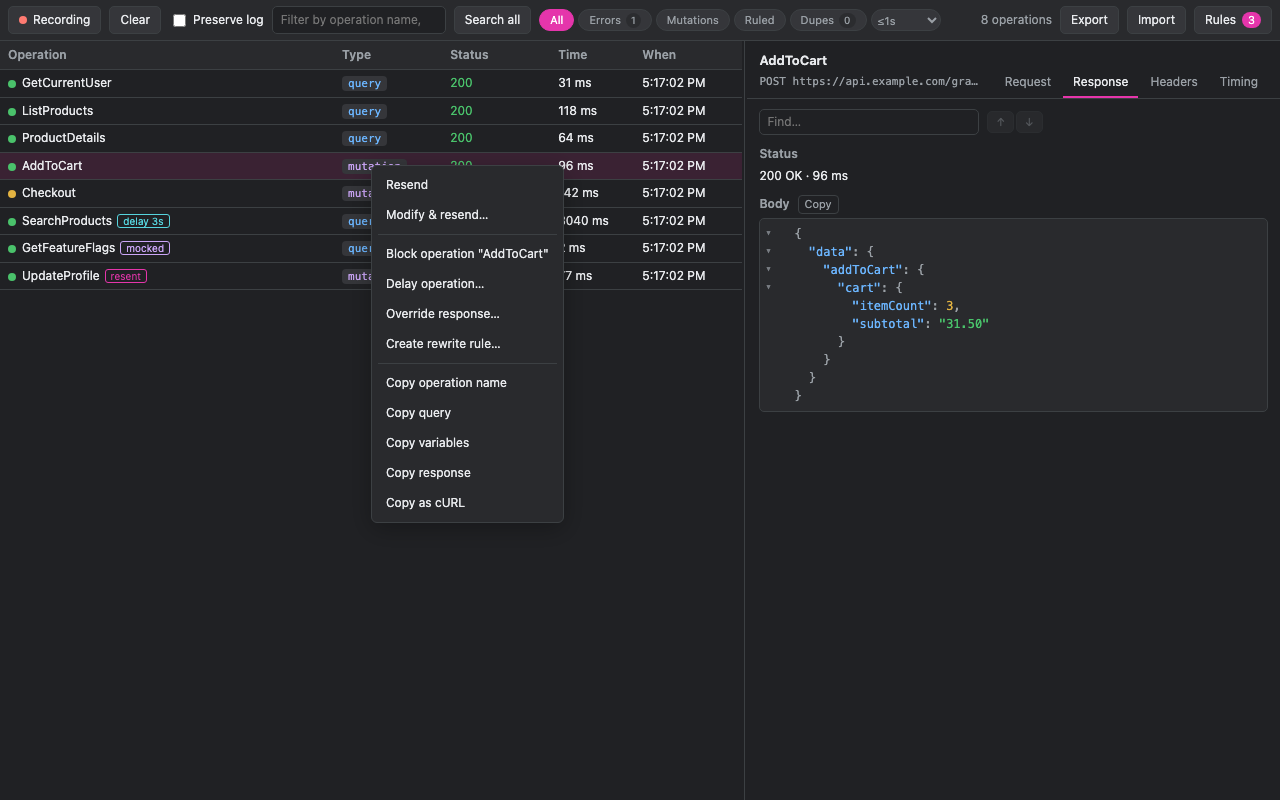
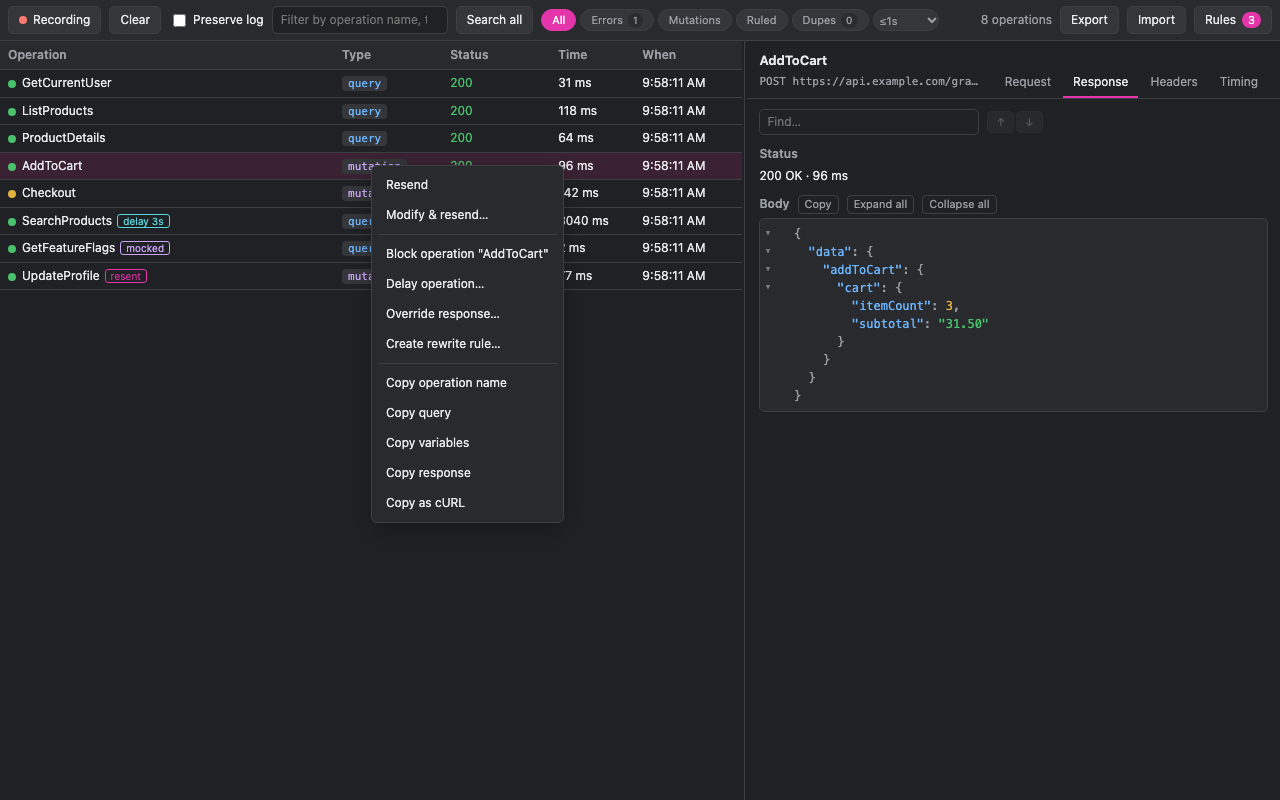
Open every viewer fully expanded, with Expand all / Collapse all (v1.6.0)
- Every viewer (query, variables, raw body, response) was capped at 360px
  inside a pane that already scrolls, so a long response showed a scrollbar
  inside a scrollbar even with room to spare. The cap is gone: a block grows
  to its content and the tab pane under the pinned tab bar is the one vertical
  scroller. A block scrolls sideways only when a line is wider than the pane.
- Large arrays no longer auto-collapse; everything opens expanded. Each
  heading with something nested to fold gains Expand all / Collapse all.
  Collapse all leaves the top-level outline (`"data": { … }`): blocks that
  open at column 0 — the JSON root, a GraphQL operation or fragment — stay
  open. The Query buttons drive whichever block is on screen, inlined
  fragments included; a flat block like `{ "q": "cook" }` gets no buttons.
- Showing every row costs layout: a 24k-line (243 KB) response took ~490 ms
  to open expanded against ~130 ms mostly folded. Rows now use
  `content-visibility: auto` so off-screen ones skip layout (~250 ms; Expand
  all 340 ms -> 35 ms). Each row is sized to its line (max-content, at least
  the block's width) so that containment can't clip a long line — which also
  keeps a long line's gutter pinned when the block is scrolled sideways.
- Folding is one linear pass instead of rows x folded blocks, so collapsing
  thousands of blocks at once is instant.
- README, store listing, checklist zip name and store screenshots updated.
[…]

diff --git a/src/panel.js b/src/panel.js
@@ -404,15 +404,29 @@
   }
 
   // Foldable, syntax-highlighted code block (falls back to <pre> if codeview missing).
-  // opts.autoCollapseLines auto-folds blocks taller than N lines (used for bodies).
-  // Every row can copy the piece of the document it opens — see copyRow/copyRowMenu.
-  var AUTO_COLLAPSE = 24;
-  function codeBlock(text, lang, opts) {
+  // It opens fully expanded; the heading's Expand all / Collapse all (foldLinks)
+  // folds it down to an outline. Every row can copy the piece of the document it
+  // opens — see copyRow/copyRowMenu.
+  function codeBlock(text, lang) {
     if (window.GQLCode && text != null && text !== '') {
-      var full = Object.assign({}, opts || {}, { copy: copyRow, menu: copyRowMenu });
-      try { return GQLCode.renderFoldableCode(String(text), lang, full); } catch (e) { /* fall through */ }
+      try { return GQLCode.renderFoldableCode(String(text), lang, { copy: copyRow, menu: copyRowMenu }); } catch (e) { /* fall through */ }
     }
     return el('pre', { class: 'block', text: (text == null || text === '') ? '(empty)' : String(text) });
+  }
+
+  // Expand all / Collapse all for one viewer, to sit in its heading. Nothing for
+  // a block with nothing nested to fold (a flat variables object, a <pre>).
+  function foldLinks(block) {
+    var f = block && block.cvFold;
+    if (!f || !f.count) return [];
+    return [
+      el('button', { class: 'fold-link', type: 'button', text: 'Expand all', title: 'Unfold every block', onclick: f.expandAll }),
+      el('button', { class: 'fold-link', type: 'button', text: 'Collapse all', title: 'Fold every nested block, leaving the top-level outline', onclick: f.collapseAll })
+    ];
+  }
+  function withFoldLinks(label, block) {
+    foldLinks(block).forEach(function (b) { label.appendChild(b); });
+    return label;
   }
 
   // ---- copying a piece of a viewer ---------------------------------------
@@ -469,11 +483,11 @@
     }
     return lab;
   }
-  function jsonOrPre(text, opts) {
+  function jsonOrPre(text) {
     if (text == null || text === '') return el('pre', { class: 'block', text: '(none)' });
     var parses = false;
     try { JSON.parse(typeof text === 'string' ? text : JSON.stringify(text)); parses = true; } catch (e) {}
-    return parses ? codeBlock(prettyJson(text), 'json', opts) : el('pre', { class: 'block', text: String(text) });
+    return parses ? codeBlock(prettyJson(text), 'json') : el('pre', { class: 'block', text: String(text) });
   }
   // Tags a code block with the search key its text was derived from (see
   // lib/search.js) so a search hit can find the block and scroll to the line.
@@ -489,17 +503,24 @@
     var cb = el('input', { type: 'checkbox' });
     var lbl = el('label', { class: 'tcheck inline' }, [cb, document.createTextNode(' Inline fragments')]);
     var bar = el('div', { class: 'findbar' }, [lbl]);
+    // the fold buttons belong to whichever block is showing, inlined or not
+    var foldSlot = el('span', { class: 'fold-links' });
     function render() {
       holder.textContent = '';
       var q = query || '(not available)';
       if (cb.checked && window.GQLCode && GQLCode.inlineFragments) { try { q = GQLCode.inlineFragments(query); } catch (e) {} }
       shown = fmtQuery(q);
-      holder.appendChild(tagged(codeBlock(q, 'graphql'), cb.checked ? null : sk));
+      var block = codeBlock(q, 'graphql');
+      holder.appendChild(tagged(block, cb.checked ? null : sk));
+      foldSlot.textContent = '';
+      foldLinks(block).forEach(function (b) { foldSlot.appendChild(b); });
     }
     cb.addEventListener('change', render);
     if (!/\.\.\.[A-Za-z_]/.test(query || '')) bar.style.display = 'none'; // no fragment spreads → hide toggle
     render();
-    wrap.appendChild(sectionLabel(labelText, function () { return shown; }, 'query'));
+    var label = sectionLabel(labelText, function () { return shown; }, 'query');
+    label.appendChild(foldSlot);
+    wrap.appendChild(label);
     if (note) wrap.appendChild(el('div', { class: 'muted', text: note }));
     wrap.appendChild(bar);
     wrap.appendChild(holder);
@@ -598,13 +619,15 @@
         'Query' + ((rec.entries.length > 1) ? ' #' + (i + 1) + ' — ' + entry.operationName : ''),
         entry.persisted ? 'Persisted query (hash only — no query text sent).' : null));
       var vars = prettyJson(entry.variables != null ? entry.variables : {});
-      reqPane.appendChild(sectionLabel('Variables', function () { return vars; }, 'variables'));
-      reqPane.appendChild(tagged(codeBlock(vars, 'json', { autoCollapseLines: AUTO_COLLAPSE }), 'v' + i));
+      var varsBlock = codeBlock(vars, 'json');
+      reqPane.appendChild(withFoldLinks(sectionLabel('Variables', function () { return vars; }, 'variables'), varsBlock));
+      reqPane.appendChild(tagged(varsBlock, 'v' + i));
     });
     if (rec.requestBody) {
-      reqPane.appendChild(sectionLabel('Raw request body' + (rec.requestBodyTruncated ? ' (truncated — resend disabled)' : ''),
-        function () { return prettyJson(rec.requestBody); }, 'request body'));
-      reqPane.appendChild(tagged(jsonOrPre(rec.requestBody, { autoCollapseLines: AUTO_COLLAPSE }), 'rb'));
+      var bodyBlock = jsonOrPre(rec.requestBody);
+      reqPane.appendChild(withFoldLinks(sectionLabel('Raw request body' + (rec.requestBodyTruncated ? ' (truncated — resend disabled)' : ''),
+        function () { return prettyJson(rec.requestBody); }, 'request body'), bodyBlock));
+      reqPane.appendChild(tagged(bodyBlock, 'rb'));
     }
 
     // response
@@ -615,8 +638,9 @@
     resPane.appendChild(sectionLabel('Status'));
     resPane.appendChild(el('div', { text: (rec.status != null ? String(rec.status) : 'pending') + (rec.statusText ? ' ' + rec.statusText : '') + (rec.durationMs != null ? '  ·  ' + Math.round(rec.durationMs) + ' ms' : '') }));
     if (rec.error) { resPane.appendChild(sectionLabel('Error')); resPane.appendChild(el('pre', { class: 'block', text: rec.error })); }
-    resPane.appendChild(sectionLabel('Body', rec.responseBody != null ? function () { return prettyJson(rec.responseBody); } : null, 'response'));
-    resPane.appendChild(rec.responseBody != null ? tagged(jsonOrPre(rec.responseBody, { autoCollapseLines: AUTO_COLLAPSE }), 'res') : el('pre', { class: 'block', text: '(no response yet)' }));
+    var resBlock = rec.responseBody != null ? tagged(jsonOrPre(rec.responseBody), 'res') : el('pre', { class: 'block', text: '(no response yet)' });
+    resPane.appendChild(withFoldLinks(sectionLabel('Body', rec.responseBody != null ? function () { return prettyJson(rec.responseBody); } : null, 'response'), resBlock));
+    resPane.appendChild(resBlock);
 
     // headers
     var hPane = document.querySelector('.tabpane[data-pane="headers"]');

diff --git a/src/lib/codeview.js b/src/lib/codeview.js
@@ -254,22 +254,16 @@
     var ranges = computeFoldRanges(formatted, lang);
     var closeOf = {};        // openLine -> closeLine (for header lines)
     ranges.forEach(function (r) { if (closeOf[r.open] == null || r.close > closeOf[r.open]) closeOf[r.open] = r.close; });
-    var collapsed = {};      // openLine -> true
-    // Auto-collapse only large ARRAY blocks (e.g. `edges: [ … ]`) that aren't the
-    // root — this hides the bulk while keeping the object structure/shape visible.
-    if (opts.autoCollapseLines > 0) {
-      Object.keys(closeOf).forEach(function (o) {
-        o = +o;
-        if (o === 0) return; // never fold the root
-        if (closeOf[o] - o <= opts.autoCollapseLines) return; // not large
-        var trimmed = (lines[o] || '').replace(/\s+$/, '');
-        if (trimmed.charAt(trimmed.length - 1) === '[') collapsed[o] = true; // arrays only
-      });
-    }
+    var collapsed = {};      // openLine -> true; everything starts expanded
+    // Blocks that open at column 0 (the JSON root, a GraphQL operation or
+    // fragment definition) stay open on "collapse all", so it leaves an outline
+    // one level deep instead of a single `{ … }`.
+    var nested = Object.keys(closeOf).map(Number).filter(function (o) { return indentOf(lines[o]) > 0; });
 
     var wrap = doc.createElement('div');
     wrap.className = 'codeview';
     var rowEls = [];
+    var gutters = {};        // openLine -> its fold arrow
     var highlight = lang === 'graphql' ? highlightGraphQLLine : highlightJsonLine;
 
     function svg(tag, attrs) {
@@ -327,10 +321,9 @@
       gutter.className = 'cv-gutter';
       if (closeOf[i] != null) {
         gutter.classList.add('cv-foldable');
-        gutter.textContent = collapsed[i] ? '▸' : '▾';
+        gutters[i] = gutter;
         gutter.addEventListener('click', function () {
           collapsed[i] = !collapsed[i];
-          gutter.textContent = collapsed[i] ? '▸' : '▾';
           update();
         });
       }
@@ -359,19 +352,30 @@
       rowEls.push(row);
     });
 
+    // One pass: a row is hidden while it sits inside any folded block above it.
+    // (Linear, so folding thousands of blocks at once stays instant.)
     function update() {
+      var hideUntil = -1;
       for (var i = 0; i < rowEls.length; i++) {
-        var hidden = false;
-        for (var o in collapsed) {
-          if (!collapsed[o]) continue;
-          o = +o;
-          if (o < i && i <= closeOf[o]) { hidden = true; break; }
-        }
-        rowEls[i].style.display = hidden ? 'none' : '';
-        rowEls[i].classList.toggle('cv-collapsed', !!collapsed[i]);
+        var folded = !!collapsed[i];
+        rowEls[i].style.display = i <= hideUntil ? 'none' : '';
+        rowEls[i].classList.toggle('cv-collapsed', folded);
+        if (gutters[i]) gutters[i].textContent = folded ? '▸' : '▾';
+        if (folded && closeOf[i] > hideUntil) hideUntil = closeOf[i];
       }
     }
     update();
+    // For the panel's Expand all / Collapse all; `count` is how many blocks
+    // collapseAll() folds, so a caller can skip the buttons when it's 0.
+    wrap.cvFold = {
+      count: nested.length,
+      expandAll: function () { collapsed = {}; update(); },
+      collapseAll: function () {
+        collapsed = {};
+        nested.forEach(function (o) { collapsed[o] = true; });
+        update();
+      }
+    };
     return wrap;
   }
 

diff --git a/src/panel.css b/src/panel.css
@@ -205,15 +205,26 @@ body.resizing { cursor: col-resize; user-select: none; }
 }
 .dup-link:hover { background: var(--dup); color: var(--bg); }
 
-/* foldable code viewer */
+/* foldable code viewer — no height cap: a block grows to fit its content and the
+   tab pane under the pinned tab bar is the one vertical scroller (no scrollbar
+   nested inside another). It scrolls sideways only when a line is wider than the
+   pane. */
 .codeview {
   font-family: var(--mono); font-size: 12px; background: var(--bg-2);
   border: 1px solid var(--border); border-radius: 5px; padding: 6px 0;
-  overflow: auto; max-height: 360px; margin: 0 0 8px;
+  overflow-x: auto; overflow-y: hidden; margin: 0 0 8px;
 }
 /* rows carry an opaque background of their own so the sticky gutter can
    `inherit` it and stay readable when a long line is scrolled underneath */
-.cv-row { display: flex; white-space: pre; line-height: 1.5; background: var(--bg-2); }
+/* Blocks open fully expanded, and a big response is tens of thousands of rows:
+   `content-visibility: auto` lets the browser skip laying out the ones scrolled
+   out of view. That clips each row to its own box, so a row is sized to its
+   line (max-content, at least the block's width) rather than to the block. */
+.cv-row {
+  display: flex; white-space: pre; line-height: 1.5; background: var(--bg-2);
+  width: max-content; min-width: 100%;
+  content-visibility: auto; contain-intrinsic-height: auto 18px;
+}
 .cv-row:hover { background: var(--row-hover); }
 /* dimmed via the text colour, never `opacity` — that would make the sticky
    background translucent and let a scrolled-past line show through */
@@ -311,14 +322,16 @@ body.resizing { cursor: col-resize; user-select: none; }
 .tabpane { display: none; }
 .tabpane.active { display: block; }
 .section-label { display: flex; align-items: center; gap: 8px; font-weight: 600; margin: 10px 0 4px; color: var(--muted); }
-.copy-link {
+.copy-link, .fold-link {
   font: inherit; font-size: 11px; font-weight: 400; color: var(--muted); background: none;
   border: 1px solid var(--border); border-radius: 4px; padding: 0 6px; cursor: pointer;
 }
-.copy-link:hover { color: var(--accent); border-color: var(--accent); }
+.copy-link:hover, .fold-link:hover { color: var(--accent); border-color: var(--accent); }
+.fold-links { display: inline-flex; gap: 8px; }
+.fold-links:empty { display: none; }
 pre.block {
   margin: 0 0 8px; padding: 8px; background: var(--bg-2); border: 1px solid var(--border);
-  border-radius: 5px; overflow: auto; max-height: 340px; font-family: var(--mono); white-space: pre-wrap; word-break: break-word;
+  border-radius: 5px; overflow: auto; font-family: var(--mono); white-space: pre-wrap; word-break: break-word;
 }
 table.kv { width: 100%; border-collapse: collapse; }
 table.kv td { padding: 2px 6px; border-bottom: 1px solid var(--border); vertical-align: top; font-family: var(--mono); }

diff --git a/README.md b/README.md
@@ -14,9 +14,12 @@ menu — plus persistent rules that intercept future traffic.
 - **DevTools panel** — a new **GraphQL** tab next to Network/Console, scoped to the
   inspected tab.
 - **Foldable, syntax-highlighted view** — queries and variables render as collapsible,
-  highlighted code instead of a raw escaped blob. Large response/variable blocks
-  auto-collapse; the query stays open. **Inline fragments** toggle expands `...Spreads`
-  in place so fragment-heavy queries read as one tree.
+  highlighted code instead of a raw escaped blob. Every block opens fully expanded and
+  grows to fit its content, so the detail pane is the only scrollbar; a block scrolls
+  sideways only when a line is wider than the pane. **Expand all** / **Collapse all**
+  next to a heading (Query / Variables / Body) folds a big block down to its top-level
+  outline and back. **Inline fragments** toggle expands `...Spreads` in place so
+  fragment-heavy queries read as one tree.
 - **Duplicate-call hint** — when the *same* operation (same URL, method, query and
   variables) fires twice inside a short window, every call in the burst is tinted
   orange and tagged `dup ×N`. That is almost always a bug: a double-firing effect, a

diff --git a/store/LISTING.md b/store/LISTING.md
@@ -34,7 +34,8 @@ _(120 characters — check the counter after any edit.)_
 > **Read it easily**
 > • Queries, variables, and responses render as collapsible, syntax‑highlighted code —
 >   not one giant escaped string.
-> • Large response/variable blocks auto‑collapse; an "Inline fragments" toggle expands
+> • Blocks open fully expanded with no nested scrollbars; Expand all / Collapse all folds a
+>   big response to its outline, and an "Inline fragments" toggle expands
 >   `...FragmentSpreads` in place so fragment‑heavy queries read as one tree.
 > • Filter by text or by chips (errors / mutations / ruled), and find text inside a
 >   query or response.

diff --git a/store/SUBMISSION-CHECKLIST.md b/store/SUBMISSION-CHECKLIST.md
@@ -10,7 +10,7 @@
 - [ ] Set up the developer contact email and verify it (required before publishing).
 
 ## 2. Package
-- [ ] Build the upload zip (already produced): `graphql-operator-v1.5.0.zip`.
+- [ ] Build the upload zip (already produced): `graphql-operator-v1.6.0.zip`.
       Rebuild after any change with:
       ```bash
       rm -f graphql-operator-v*.zip
